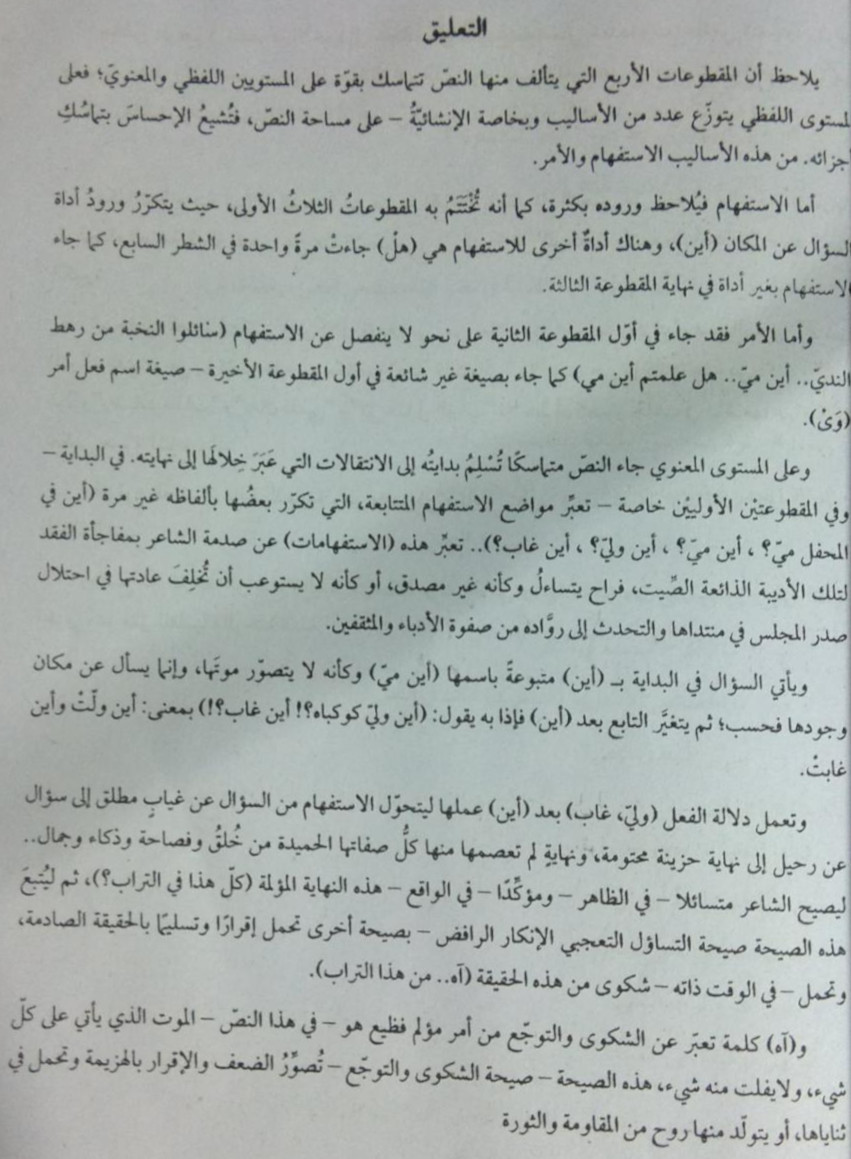
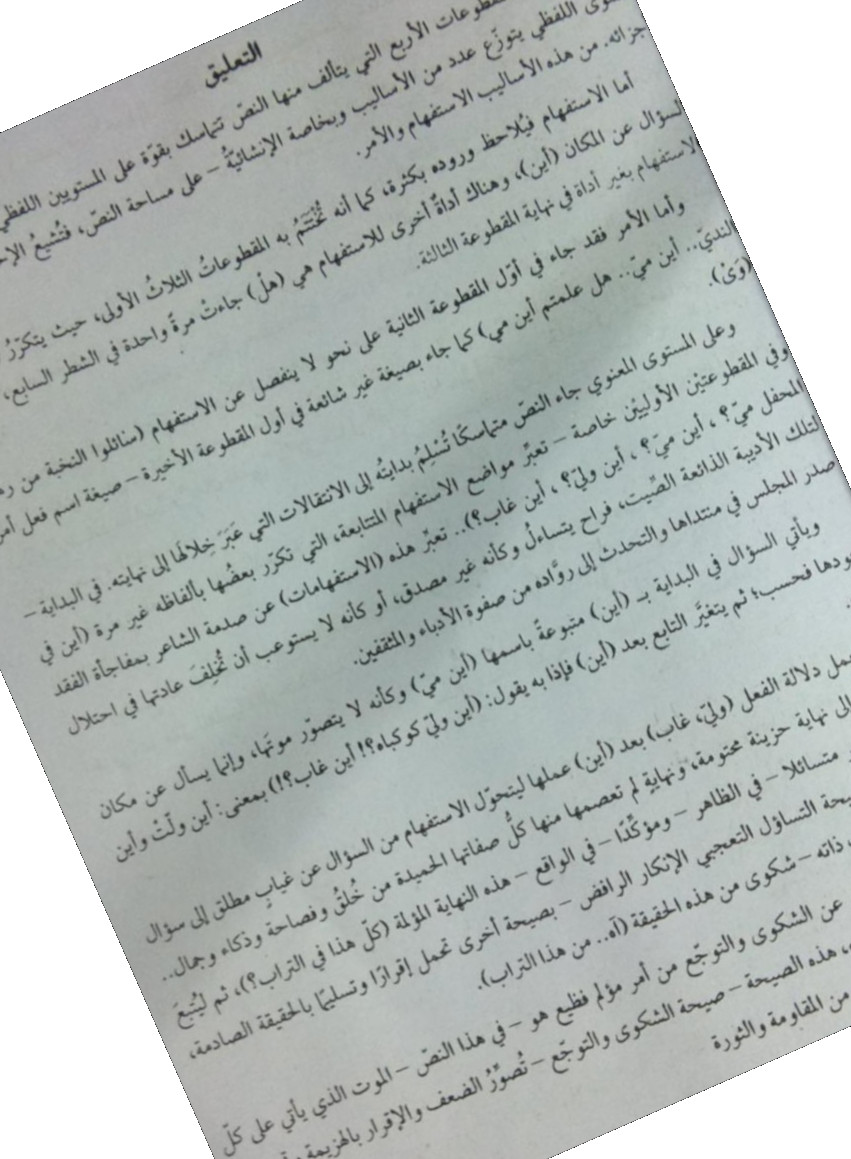
Add rotation checking to find the best angle

diff --git a/arabic_line_segmentation.py b/arabic_line_segmentation.py
@@ -46,13 +46,37 @@ if __name__ == '__main__':
     img = cv.bitwise_not(img)
     (thresh, img) = cv.threshold(img, 127, 255, cv.THRESH_BINARY)
     dilated = dilate(img)
-    eroded = erode(dilated)
+    img = erode(dilated)
+    # rotate and get row sum
+    fp = findpeaks(lookahead=10)
+    scores = [0]
+    maxIdx = 0
+    best = img
+    for i in range(180):
+        image_center = tuple(np.array(img.shape[1::-1]) /2)
+        rot_mat = cv.getRotationMatrix2D(image_center, i-90, 1.0)
+        result = cv.warpAffine(img, rot_mat, img.shape[1::-1], cv.INTER_LINEAR)
+        row_sum = np.sum(result, axis=1)
+        peaks = fp.fit(row_sum)
+        score = 0
+        for index, row in peaks['df'].iterrows():
+            if row['peak']:
+                score = score + row['y']
+        scores.append(score)
+        if score > scores[maxIdx]:
+            maxIdx = i
+            best = result
+
+    img = best
+    print(maxIdx)
+    print(scores)
+    plt.plot(scores)
+    plt.show()
+
     row_sum = np.sum(img, axis=1)
-    col_sum = np.sum(img, axis=0)
     average = np.average(row_sum, axis=0)
     plt.plot(row_sum.tolist())
     plt.show()
-    fp = findpeaks(lookahead=10)
     peaks = fp.fit(row_sum)
     fp.plot()
     lastTroughIdx = 0
@@ -66,6 +90,10 @@ if __name__ == '__main__':
             lastTroughIdx = index
             valleys.append(index)
     # orig_img = cv.cvtColor(orig_img, cv.COLOR_GRAY2RGB)
+    # Rotate original image
+    image_center = tuple(np.array(orig_img.shape[1::-1]) / 2)
+    rot_mat = cv.getRotationMatrix2D(image_center, maxIdx-90, 1.0)
+    orig_img = cv.warpAffine(orig_img, rot_mat, img.shape[1::-1], cv.INTER_LINEAR)
     for line in valleys:
         orig_img = cv.line(orig_img, (0, line), (len(orig_img[0]), line), (0, 255, 0), thickness=1)
     cv.imshow("Lines", orig_img)
